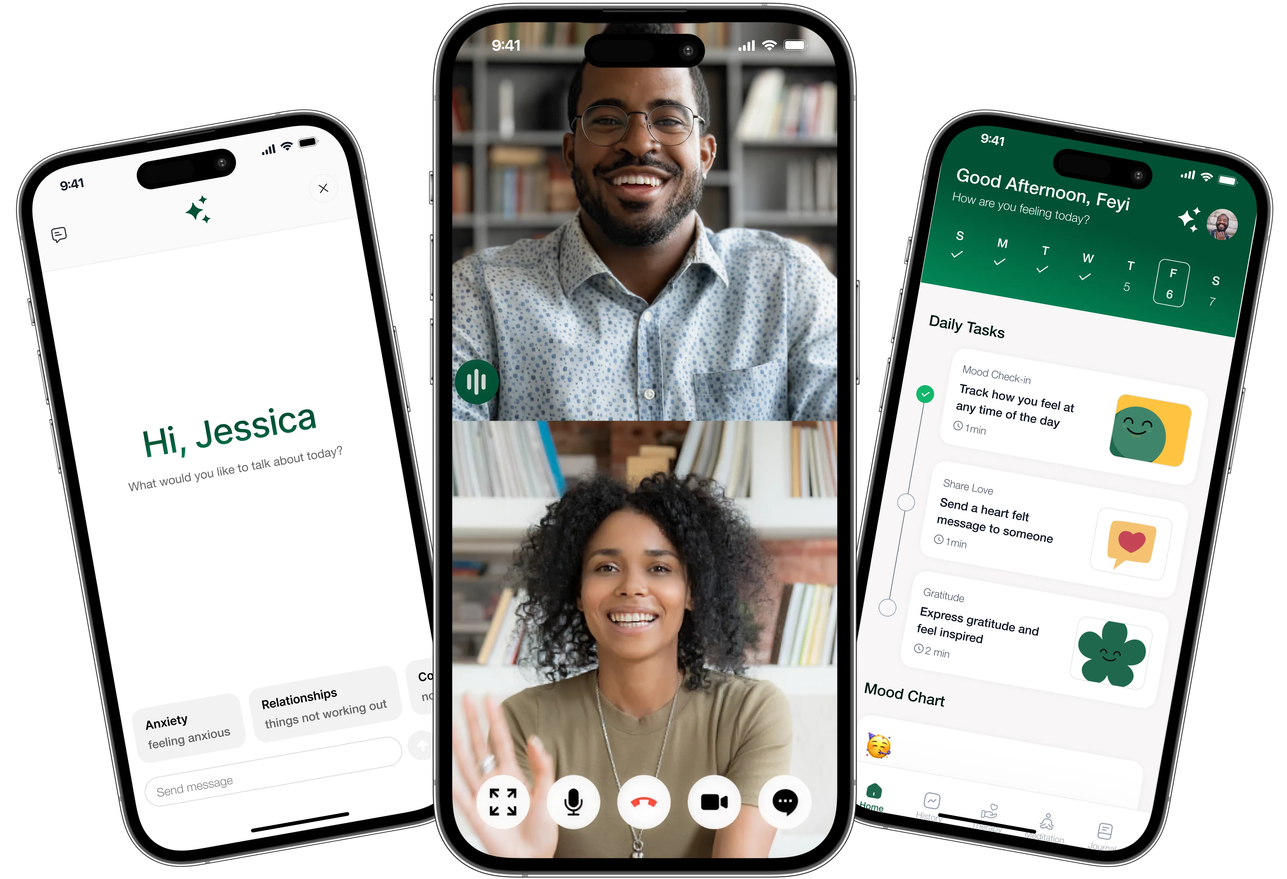
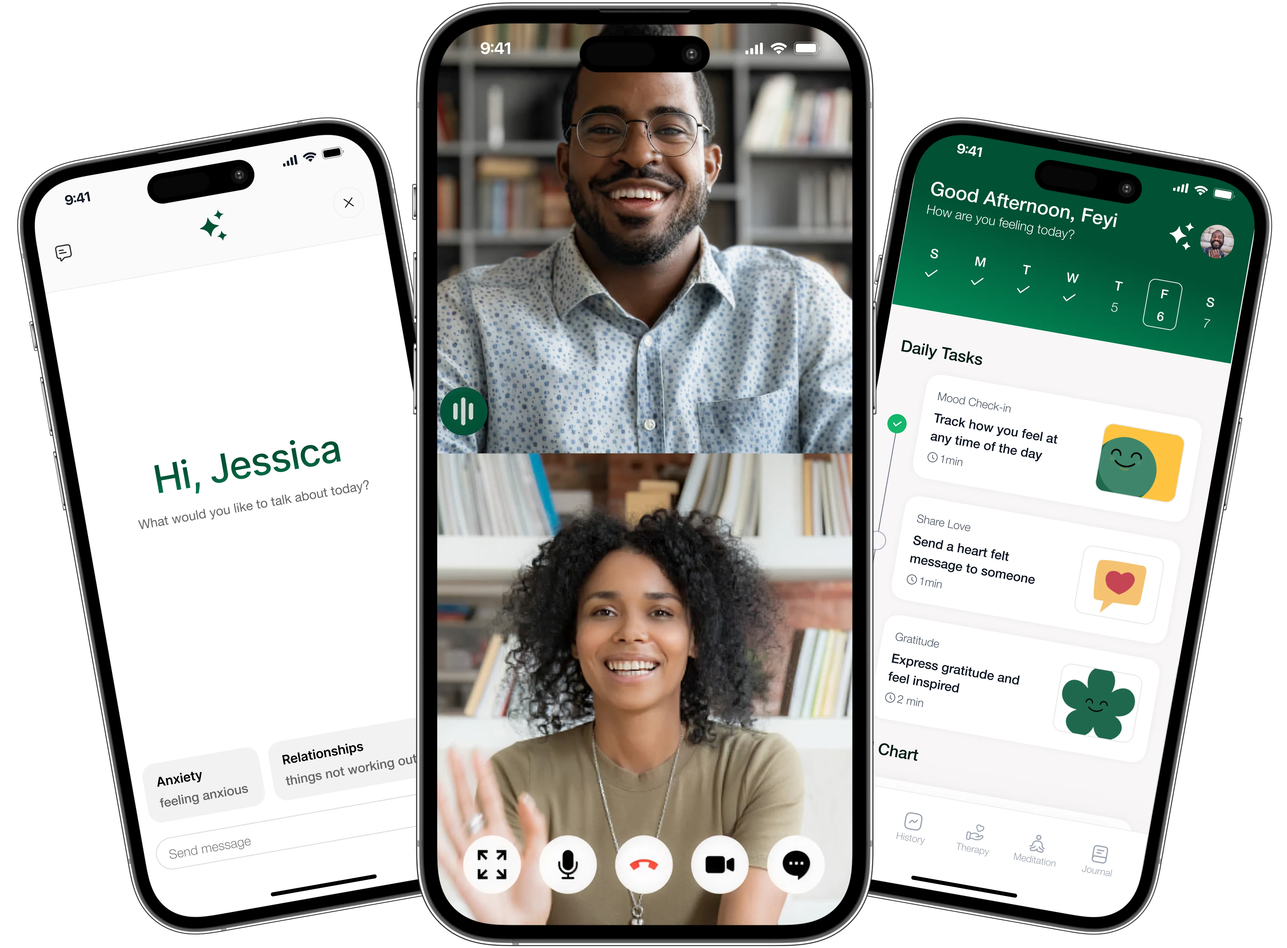
Adds mockups for features

diff --git a/components/home/client-homepage.tsx b/components/home/client-homepage.tsx
@@ -87,7 +87,7 @@ export default function ClientHomepage() {
               <div className="w-full max-w-[1440px] mx-auto px-6 lg:px-8">
                 <div className="flex flex-col gap-6 lg:gap-8 text-left lg:text-center">
                   <p className="text-[#015033] text-sm">FEATURES</p>
-                  <p className="text-[#101828] lg:leading-[72px] leading-[44px] lg:text-[60px] text-[36px] font-semibold">
+                  <p className="text-[#101828] text-[36px] leading-[44px] tracking-[-0.02em] lg:text-[60px] lg:leading-[72px] font-semibold">
                     What We Offer
                   </p>
                   <p className="text-base text-[#736F67] leading-[24px] mb-4">
@@ -103,7 +103,7 @@ export default function ClientHomepage() {
                   transition={{ duration: 0.6, ease: "easeOut" }}
                   viewport={{ once: true, margin: "-50px" }}
                 >
-                  {/* Self Care Feature - Horizontal Layout */}
+                  {/* Self Care Feature - Image Above Description */}
                   <motion.div 
                     className="flex flex-col gap-6 py-6"
                     initial={{ opacity: 0, y: 30 }}
@@ -111,35 +111,33 @@ export default function ClientHomepage() {
                     transition={{ duration: 0.5, delay: 0.1, ease: "easeOut" }}
                     viewport={{ once: true, margin: "-50px" }}
                   >
-                    {/* Progress Bar */}
-                    <div className="w-full h-1 bg-gray-200 rounded-full">
-                      <div className="w-3/4 h-full bg-[#01BC77] rounded-full"></div>
+                    {/* Image Above */}
+                    <div className="w-full h-[280px] bg-[#e5f8f1] rounded-[20px] border border-[rgba(1,188,119,0.1)] flex items-center justify-center relative overflow-hidden">
+                      <img 
+                        src="/selfcaremockup.webp" 
+                        alt="Self Care App Mockup" 
+                        className="absolute top-[48px] left-1/2 transform -translate-x-1/2 w-[24px] h-auto"
+                      />
                     </div>
                     
-                    <div className="flex items-center gap-6">
-                      <div className="flex-1">
-                        <div className="size-12 rounded-full flex items-center justify-center mb-4 w-fit">
-                          <svg width="48" height="49" viewBox="0 0 48 49" fill="none" xmlns="http://www.w3.org/2000/svg">
-                            <rect y="0.603027" width="48" height="48" rx="24" fill="#E5F8F1"/>
-                            <rect x="0.25" y="0.853027" width="47.5" height="47.5" rx="23.75" stroke="#01BC77" strokeOpacity="0.1" strokeWidth="0.5"/>
-                            <path d="M24 35.353C29.9371 35.353 34.75 30.5401 34.75 24.603C34.75 18.666 29.9371 13.853 24 13.853C18.0629 13.853 13.25 18.666 13.25 24.603C13.25 30.5401 18.0629 35.353 24 35.353ZM22.2373 23.3149C21.9312 23.417 21.5941 23.3113 21.4004 23.0532C20.9504 22.4532 20.0496 22.4532 19.5996 23.0532C19.351 23.3843 18.8811 23.4511 18.5498 23.2026C18.2187 22.954 18.1519 22.4841 18.4004 22.1528C18.9124 21.4704 19.6737 21.1209 20.4414 21.104C20.177 20.8095 20.1865 20.3559 20.4697 20.0728C20.7626 19.7799 21.2374 19.7799 21.5303 20.0728C21.564 20.1089 21.6711 20.223 21.7256 20.2866C21.8339 20.4129 21.9784 20.5936 22.124 20.812C22.3989 21.2244 22.75 21.8776 22.75 22.603C22.75 22.9259 22.5436 23.2129 22.2373 23.3149ZM26.5996 23.0532C26.4059 23.3113 26.0688 23.417 25.7627 23.3149C25.4564 23.2129 25.25 22.9259 25.25 22.603C25.25 21.8776 25.6011 21.2244 25.876 20.812C26.0216 20.5936 26.1661 20.4129 26.2744 20.2866C26.3289 20.223 26.436 20.1089 26.4697 20.0728C26.7626 19.7799 27.2374 19.7799 27.5303 20.0728C27.8135 20.3559 27.823 20.8095 27.5586 21.104C28.3263 21.1209 29.0876 21.4704 29.5996 22.1528C29.8481 22.4841 29.7813 22.954 29.4502 23.2026C29.1189 23.4511 28.649 23.3843 28.4004 23.0532C27.9504 22.4532 27.0496 22.4532 26.5996 23.0532ZM24 30.353C22.1185 30.353 20.4481 29.4481 19.4004 28.0532C19.1517 27.722 19.2186 27.2521 19.5498 27.0034C19.881 26.7547 20.3509 26.8216 20.5996 27.1528C21.3762 28.1867 22.6103 28.853 24 28.853C25.3897 28.853 26.6238 28.1867 27.4004 27.1528C27.6491 26.8217 28.119 26.7548 28.4502 27.0034C28.7814 27.2522 28.8483 27.722 28.5996 28.0532C27.5519 29.4481 25.8816 30.353 24 30.353Z" fill="#01BC77"/>
-                          </svg>
-                        </div>
-                        <h3 className="text-[#353535] text-xl font-medium mb-3">Self Care</h3>
-                        <p className="text-[#736F67] text-sm leading-5 mb-4">Personalize your self-care with mood check-ins, gratitude, journaling, sharing love & much more</p>
+                    {/* Content Below */}
+                    <div className="flex flex-col gap-4">
+                      <div className="size-12 rounded-full flex items-center justify-center mb-4 w-fit">
+                        <svg width="48" height="49" viewBox="0 0 48 49" fill="none" xmlns="http://www.w3.org/2000/svg">
+                          <rect y="0.603027" width="48" height="48" rx="24" fill="#E5F8F1"/>
+                          <rect x="0.25" y="0.853027" width="47.5" height="47.5" rx="23.75" stroke="#01BC77" strokeOpacity="0.1" strokeWidth="0.5"/>
+                          <path d="M24 35.353C29.9371 35.353 34.75 30.5401 34.75 24.603C34.75 18.666 29.9371 13.853 24 13.853C18.0629 13.853 13.25 18.666 13.25 24.603C13.25 30.5401 18.0629 35.353 24 35.353ZM22.2373 23.3149C21.9312 23.417 21.5941 23.3113 21.4004 23.0532C20.9504 22.4532 20.0496 22.4532 19.5996 23.0532C19.351 23.3843 18.8811 23.4511 18.5498 23.2026C18.2187 22.954 18.1519 22.4841 18.4004 22.1528C18.9124 21.4704 19.6737 21.1209 20.4414 21.104C20.177 20.8095 20.1865 20.3559 20.4697 20.0728C20.7626 19.7799 21.2374 19.7799 21.5303 20.0728C21.564 20.1089 21.6711 20.223 21.7256 20.2866C21.8339 20.4129 21.9784 20.5936 22.124 20.812C22.3989 21.2244 22.75 21.8776 22.75 22.603C22.75 22.9259 22.5436 23.2129 22.2373 23.3149ZM26.5996 23.0532C26.4059 23.3113 26.0688 23.417 25.7627 23.3149C25.4564 23.2129 25.25 22.9259 25.25 22.603C25.25 21.8776 25.6011 21.2244 25.876 20.812C26.0216 20.5936 26.1661 20.4129 26.2744 20.2866C26.3289 20.223 26.436 20.1089 26.4697 20.0728C26.7626 19.7799 27.2374 19.7799 27.5303 20.0728C27.8135 20.3559 27.823 20.8095 27.5586 21.104C28.3263 21.1209 29.0876 21.4704 29.5996 22.1528C29.8481 22.4841 29.7813 22.954 29.4502 23.2026C29.1189 23.4511 28.649 23.3843 28.4004 23.0532C27.9504 22.4532 27.0496 22.4532 26.5996 23.0532ZM24 30.353C22.1185 30.353 20.4481 29.4481 19.4004 28.0532C19.1517 27.722 19.2186 27.2521 19.5498 27.0034C19.881 26.7547 20.3509 26.8216 20.5996 27.1528C21.3762 28.1867 22.6103 28.853 24 28.853C25.3897 28.853 26.6238 28.1867 27.4004 27.1528C27.6491 26.8217 28.119 26.7548 28.4502 27.0034C28.7814 27.2522 28.8483 27.722 28.5996 28.0532C27.5519 29.4481 25.8816 30.353 24 30.353Z" fill="#01BC77"/>
+                        </svg>
+                      </div>
+                      <h3 className="text-[#353535] text-xl font-medium mb-3">Self Care</h3>
+                      <p className="text-[#736F67] text-sm leading-5 mb-4">Personalize your self-care with mood check-ins, gratitude, journaling, sharing love & much more</p>
                       <button className="w-full md:w-auto rounded-[4px] hover:bg-gray-50 hover:scale-[1.02] hover:shadow-sm px-5 py-3 text-center text-[16px] text-[#015033] transition-all duration-200 ease-out border border-[#015033]">
                         Start Self Care
                       </button>
-                      </div>
-                      <div className="flex-1">
-                        <div className="w-full h-[280px] bg-gray-200 rounded-lg flex items-center justify-center">
-                          <span className="text-gray-500 text-sm">iPhone Mockup</span>
-                        </div>
-                      </div>
                     </div>
                   </motion.div>
 
-                  {/* Therapy Feature - Vertical Stack */}
+                  {/* Therapy Feature - Image Above Description */}
                   <motion.div 
                     className="flex flex-col gap-6 py-6"
                     initial={{ opacity: 0, y: 30 }}
@@ -147,32 +145,39 @@ export default function ClientHomepage() {
                     transition={{ duration: 0.5, delay: 0.2, ease: "easeOut" }}
                     viewport={{ once: true, margin: "-50px" }}
                   >
-                    {/* Progress Bar */}
-                    <div className="w-full h-1 bg-gray-200 rounded-full">
-                      <div className="w-3/4 h-full bg-[#0665FE] rounded-full"></div>
+                    {/* Image Above */}
+                    <div className="w-full h-[280px] bg-[#eff3fb] rounded-[20px] border border-[rgba(6,101,254,0.1)] flex items-center justify-center relative overflow-hidden">
+                      <img 
+                        src="/therapymockup.webp" 
+                        alt="Therapy App Mockup" 
+                        className="absolute top-[48px] left-1/2 transform -translate-x-1/2 w-[24px] h-auto"
+                      />
                     </div>
                     
-                    <div className="flex items-center gap-4">
-                      <div className="size-12 rounded-full flex items-center justify-center w-fit">
-                        <svg width="48" height="49" viewBox="0 0 48 49" fill="none" xmlns="http://www.w3.org/2000/svg">
-                          <rect y="0.603027" width="48" height="48" rx="24" fill="#EFF3FB"/>
-                          <rect x="0.25" y="0.853027" width="47.5" height="47.5" rx="23.75" stroke="#0665FE" strokeOpacity="0.1" strokeWidth="0.5"/>
-                          <path d="M34 20.413V25.103H29.92C29.8 25.093 29.54 24.943 29.48 24.833L28.44 22.863C28.03 22.083 27.32 21.643 26.56 21.683C25.8 21.723 25.15 22.233 24.82 23.063L23.44 26.523L23.24 26.003C22.75 24.733 21.35 23.773 19.97 23.773L14 23.803V20.413C14 16.773 16.17 14.603 19.81 14.603H28.19C31.83 14.603 34 16.773 34 20.413Z" fill="#0665FE"/>
-                          <path d="M34 28.7929V26.6029H29.92C29.25 26.6029 28.46 26.1229 28.15 25.5329L27.11 23.5629C26.83 23.0329 26.43 23.0629 26.21 23.6129L23.91 29.4229C23.66 30.0729 23.24 30.0729 22.98 29.4229L21.84 26.5429C21.57 25.8429 20.73 25.2729 19.98 25.2729L14 25.3029V28.7929C14 32.3729 16.1 34.5329 19.63 34.5929C19.74 34.6029 19.86 34.6029 19.97 34.6029H27.97C28.12 34.6029 28.27 34.6029 28.41 34.5929C31.92 34.5129 34 32.3629 34 28.7929Z" fill="#0665FE"/>
-                          <path d="M13.9988 25.303V28.613C13.9787 28.293 13.9688 27.953 13.9688 27.603V25.303H13.9988Z" fill="#0665FE"/>
-                        </svg>
+                    {/* Content Below */}
+                    <div className="flex flex-col gap-4">
+                      <div className="flex items-center gap-4">
+                        <div className="size-12 rounded-full flex items-center justify-center w-fit">
+                          <svg width="48" height="49" viewBox="0 0 48 49" fill="none" xmlns="http://www.w3.org/2000/svg">
+                            <rect y="0.603027" width="48" height="48" rx="24" fill="#EFF3FB"/>
+                            <rect x="0.25" y="0.853027" width="47.5" height="47.5" rx="23.75" stroke="#0665FE" strokeOpacity="0.1" strokeWidth="0.5"/>
+                            <path d="M34 20.413V25.103H29.92C29.8 25.093 29.54 24.943 29.48 24.833L28.44 22.863C28.03 22.083 27.32 21.643 26.56 21.683C25.8 21.723 25.15 22.233 24.82 23.063L23.44 26.523L23.24 26.003C22.75 24.733 21.35 23.773 19.97 23.773L14 23.803V20.413C14 16.773 16.17 14.603 19.81 14.603H28.19C31.83 14.603 34 16.773 34 20.413Z" fill="#0665FE"/>
+                            <path d="M34 28.7929V26.6029H29.92C29.25 26.6029 28.46 26.1229 28.15 25.5329L27.11 23.5629C26.83 23.0329 26.43 23.0629 26.21 23.6129L23.91 29.4229C23.66 30.0729 23.24 30.0729 22.98 29.4229L21.84 26.5429C21.57 25.8429 20.73 25.2729 19.98 25.2729L14 25.3029V28.7929C14 32.3729 16.1 34.5329 19.63 34.5929C19.74 34.6029 19.86 34.6029 19.97 34.6029H27.97C28.12 34.6029 28.27 34.6029 28.41 34.5929C31.92 34.5129 34 32.3629 34 28.7929Z" fill="#0665FE"/>
+                            <path d="M13.9988 25.303V28.613C13.9787 28.293 13.9688 27.953 13.9688 27.603V25.303H13.9988Z" fill="#0665FE"/>
+                          </svg>
+                        </div>
+                        <div className="flex flex-col gap-2">
+                          <h3 className="text-[#353535] text-xl font-medium">Therapy</h3>
+                          <p className="text-[#736F67] text-base leading-6">Match with the right therapist for you, eliminating guesswork and awkward mismatches</p>
+                        </div>
                       </div>
-                      <div className="flex flex-col gap-2">
-                        <h3 className="text-[#353535] text-xl font-medium">Therapy</h3>
-                        <p className="text-[#736F67] text-base leading-6">Match with the right therapist for you, eliminating guesswork and awkward mismatches</p>
-                      </div>
+                      <button className="w-full md:w-auto rounded-[4px] hover:bg-gray-50 hover:scale-[1.02] hover:shadow-sm px-5 py-3 text-center text-[16px] text-[#015033] transition-all duration-200 ease-out border border-[#015033]">
+                        Find a Therapist
+                      </button>
                     </div>
-                    <button className="w-full md:w-auto rounded-[4px] hover:bg-gray-50 hover:scale-[1.02] hover:shadow-sm px-5 py-3 text-center text-[16px] text-[#015033] transition-all duration-200 ease-out border border-[#015033]">
-                      Find a Therapist
-                    </button>
                   </motion.div>
 
-                  {/* AI Therapy Feature - Vertical Stack */}
+                  {/* AI Therapy Feature - Image Above Description */}
                   <motion.div 
                     className="flex flex-col gap-6 py-6"
                     initial={{ opacity: 0, y: 30 }}
@@ -180,31 +185,38 @@ export default function ClientHomepage() {
                     transition={{ duration: 0.5, delay: 0.3, ease: "easeOut" }}
                     viewport={{ once: true, margin: "-50px" }}
                   >
-                    {/* Progress Bar */}
-                    <div className="w-full h-1 bg-gray-200 rounded-full">
-                      <div className="w-3/4 h-full bg-[#D92D20] rounded-full"></div>
+                    {/* Image Above */}
+                    <div className="w-full h-[280px] bg-[#fef6eb] rounded-[20px] border border-[rgba(245,151,20,0.1)] flex items-center justify-center relative overflow-hidden">
+                      <img 
+                        src="/aitherapymockup.webp" 
+                        alt="AI Therapy App Mockup" 
+                        className="absolute top-[48px] left-1/2 transform -translate-x-1/2 w-[24px] h-auto"
+                      />
                     </div>
                     
-                    <div className="flex items-center gap-4">
-                      <div className="size-12 rounded-full flex items-center justify-center w-fit">
-                        <svg width="48" height="49" viewBox="0 0 48 49" fill="none" xmlns="http://www.w3.org/2000/svg">
-                          <rect y="0.603027" width="48" height="48" rx="24" fill="#FEF6EB"/>
-                          <rect x="0.25" y="0.853027" width="47.5" height="47.5" rx="23.75" stroke="#F59714" strokeOpacity="0.1" strokeWidth="0.5"/>
-                          <path d="M31.4812 15.423L31.7612 15.993C31.9012 16.273 32.2512 16.533 32.5612 16.593L32.9412 16.653C34.0812 16.843 34.3512 17.683 33.5312 18.513L33.1812 18.863C32.9512 19.103 32.8212 19.563 32.8912 19.883L32.9412 20.093C33.2512 21.473 32.5212 22.003 31.3212 21.283L31.0612 21.133C30.7512 20.953 30.2512 20.953 29.9412 21.133L29.6812 21.283C28.4712 22.013 27.7412 21.473 28.0612 20.093L28.1112 19.883C28.1812 19.563 28.0512 19.103 27.8212 18.863L27.4712 18.503C26.6512 17.673 26.9212 16.833 28.0612 16.643L28.4412 16.583C28.7412 16.533 29.1012 16.263 29.2412 15.983L29.5212 15.413C30.0612 14.333 30.9412 14.333 31.4812 15.423Z" fill="#F59714"/>
-                          <path d="M33.57 22.693C33.21 22.953 32.2 23.433 30.76 22.693C30.6 22.613 30.4 22.603 30.24 22.693C29.67 22.983 29.15 23.103 28.74 23.103C28.1 23.103 27.65 22.853 27.43 22.693C27.06 22.423 26.28 21.653 26.55 20.023C26.58 19.853 26.53 19.683 26.42 19.553C25.73 18.763 25.35 17.703 25.62 16.873C25.72 16.543 25.51 16.103 25.17 16.103H19C16 16.103 14 17.603 14 21.103V28.103C14 31.603 16 33.103 19 33.103H29C32 33.103 34 31.603 34 28.103V22.873C34 22.683 33.73 22.583 33.57 22.693ZM26.34 24.693C25.68 25.223 24.84 25.483 24 25.483C23.16 25.483 22.31 25.223 21.66 24.693L18.53 22.193C18.21 21.933 18.16 21.453 18.41 21.133C18.67 20.813 19.14 20.753 19.46 21.013L22.59 23.513C23.35 24.123 24.64 24.123 25.4 23.513C25.72 23.253 26.19 23.303 26.45 23.633C26.72 23.953 26.67 24.433 26.34 24.693Z" fill="#F59714"/>
-                        </svg>
+                    {/* Content Below */}
+                    <div className="flex flex-col gap-4">
+                      <div className="flex items-center gap-4">
+                        <div className="size-12 rounded-full flex items-center justify-center w-fit">
+                          <svg width="48" height="49" viewBox="0 0 48 49" fill="none" xmlns="http://www.w3.org/2000/svg">
+                            <rect y="0.603027" width="48" height="48" rx="24" fill="#FEF6EB"/>
+                            <rect x="0.25" y="0.853027" width="47.5" height="47.5" rx="23.75" stroke="#F59714" strokeOpacity="0.1" strokeWidth="0.5"/>
+                            <path d="M31.4812 15.423L31.7612 15.993C31.9012 16.273 32.2512 16.533 32.5612 16.593L32.9412 16.653C34.0812 16.843 34.3512 17.683 33.5312 18.513L33.1812 18.863C32.9512 19.103 32.8212 19.563 32.8912 19.883L32.9412 20.093C33.2512 21.473 32.5212 22.003 31.3212 21.283L31.0612 21.133C30.7512 20.953 30.2512 20.953 29.9412 21.133L29.6812 21.283C28.4712 22.013 27.7412 21.473 28.0612 20.093L28.1112 19.883C28.1812 19.563 28.0512 19.103 27.8212 18.863L27.4712 18.503C26.6512 17.673 26.9212 16.833 28.0612 16.643L28.4412 16.583C28.7412 16.533 29.1012 16.263 29.2412 15.983L29.5212 15.413C30.0612 14.333 30.9412 14.333 31.4812 15.423Z" fill="#F59714"/>
+                            <path d="M33.57 22.693C33.21 22.953 32.2 23.433 30.76 22.693C30.6 22.613 30.4 22.603 30.24 22.693C29.67 22.983 29.15 23.103 28.74 23.103C28.1 23.103 27.65 22.853 27.43 22.693C27.06 22.423 26.28 21.653 26.55 20.023C26.58 19.853 26.53 19.683 26.42 19.553C25.73 18.763 25.35 17.703 25.62 16.873C25.72 16.543 25.51 16.103 25.17 16.103H19C16 16.103 14 17.603 14 21.103V28.103C14 31.603 16 33.103 19 33.103H29C32 33.103 34 31.603 34 28.103V22.873C34 22.683 33.73 22.583 33.57 22.693ZM26.34 24.693C25.68 25.223 24.84 25.483 24 25.483C23.16 25.483 22.31 25.223 21.66 24.693L18.53 22.193C18.21 21.933 18.16 21.453 18.41 21.133C18.67 20.813 19.14 20.753 19.46 21.013L22.59 23.513C23.35 24.123 24.64 24.123 25.4 23.513C25.72 23.253 26.19 23.303 26.45 23.633C26.72 23.953 26.67 24.433 26.34 24.693Z" fill="#F59714"/>
+                          </svg>
+                        </div>
+                        <div className="flex flex-col gap-2">
+                          <h3 className="text-[#353535] text-xl font-medium">AI Therapy</h3>
+                          <p className="text-[#736F67] text-base leading-6">Engage with Nara AI for 24/7 personalized mental health support anytime, anywhere.</p>
+                        </div>
                       </div>
-                      <div className="flex flex-col gap-2">
-                        <h3 className="text-[#353535] text-xl font-medium">AI Therapy</h3>
-                        <p className="text-[#736F67] text-base leading-6">Engage with Nara AI for 24/7 personalized mental health support anytime, anywhere.</p>
-                      </div>
+                      <button className="w-full md:w-auto rounded-[4px] hover:bg-gray-50 hover:scale-[1.02] hover:shadow-sm px-5 py-3 text-center text-[16px] text-[#015033] transition-all duration-200 ease-out border border-[#015033]">
+                        Start a chat
+                      </button>
                     </div>
-                    <button className="w-full md:w-auto rounded-[4px] hover:bg-gray-50 hover:scale-[1.02] hover:shadow-sm px-5 py-3 text-center text-[16px] text-[#015033] transition-all duration-200 ease-out border border-[#015033]">
-                      Start a chat
-                    </button>
                   </motion.div>
 
-                  {/* Meditation Feature - Vertical Stack */}
+                  {/* Meditation Feature - Image Above Description */}
                   <motion.div 
                     className="flex flex-col gap-6 py-6"
                     initial={{ opacity: 0, y: 30 }}
@@ -212,28 +224,35 @@ export default function ClientHomepage() {
                     transition={{ duration: 0.5, delay: 0.4, ease: "easeOut" }}
                     viewport={{ once: true, margin: "-50px" }}
                   >
-                    {/* Progress Bar */}
-                    <div className="w-full h-1 bg-gray-200 rounded-full">
-                      <div className="w-3/4 h-full bg-[#0EA5E9] rounded-full"></div>
+                    {/* Image Above */}
+                    <div className="w-full h-[280px] bg-[#f0fbff] rounded-[20px] border border-[rgba(89,213,251,0.1)] flex items-center justify-center relative overflow-hidden">
+                      <img 
+                        src="/meditationmockup.webp" 
+                        alt="Meditation App Mockup" 
+                        className="absolute top-[48px] left-1/2 transform -translate-x-1/2 w-[24px] h-auto"
+                      />
                     </div>
                     
-                    <div className="flex items-center gap-4">
-                      <div className="size-12 rounded-full flex items-center justify-center w-fit">
-                        <svg width="48" height="49" viewBox="0 0 48 49" fill="none" xmlns="http://www.w3.org/2000/svg">
-                          <rect y="0.603027" width="48" height="48" rx="24" fill="#F0FBFF"/>
-                          <rect x="0.25" y="0.853027" width="47.5" height="47.5" rx="23.75" stroke="#59D5FB" strokeOpacity="0.1" strokeWidth="0.5"/>
-                          <path d="M26.75 16.603C26.75 15.0842 25.5188 13.853 24 13.853C22.4812 13.853 21.25 15.0842 21.25 16.603C21.25 18.1218 22.4812 19.353 24 19.353C25.5188 19.353 26.75 18.1218 26.75 16.603Z" fill="#59D5FB"/>
-                          <path d="M24 19.853C22.1235 19.853 20.4224 20.5464 19.1896 21.6661C19.0655 21.7788 18.9461 21.8959 18.8318 22.017C18.3444 22.5331 18.161 23.1567 18.0627 23.6363C17.9065 24.398 17.5898 25.2847 17.0854 25.9569C16.5933 26.6127 15.9951 26.9831 15.225 26.9831C14.6865 26.9831 14.25 27.3821 14.25 27.8744C14.25 28.3666 14.6865 28.7656 15.225 28.7656C16.8397 28.7656 17.969 27.9306 18.6934 26.9652C19.3068 26.1478 19.6804 25.1811 19.8903 24.3529C20.2492 25.2113 20.4742 26.0318 20.3893 26.8388C20.2887 27.7958 19.665 28.5126 18.6721 29.1775C18.1789 29.5077 17.6266 29.8036 17.0515 30.1002C16.5802 30.3416 15.7996 30.7418 15.3672 30.9987C14.3771 31.5869 14.1003 32.6941 14.3235 33.5948C14.5504 34.5106 15.3294 35.353 16.5358 35.353C18.5176 35.353 20.3854 35.197 22.2897 34.3019L23.9098 33.3104L25.5681 34.3044C27.5076 35.1972 29.4098 35.353 31.4317 35.353C32.6442 35.353 33.4407 34.5228 33.6746 33.5984C33.9048 32.6886 33.6158 31.5797 32.6111 30.9952C32.1701 30.7387 31.677 30.4913 31.1957 30.2499C30.6083 29.9533 29.7398 29.5043 29.2353 29.1735C28.217 28.5058 27.5827 27.7884 27.4806 26.8372C27.3907 26.0006 27.6628 25.1289 28.0748 24.2104C28.2771 25.0686 28.6576 26.1004 29.3066 26.9652C30.031 27.9306 31.1603 28.7656 32.775 28.7656C33.3135 28.7656 33.75 28.3666 33.75 27.8744C33.75 27.3821 33.3135 26.9831 32.775 26.9831C32.0049 26.9831 31.4067 26.6127 30.9146 25.9569C30.4102 25.2847 30.0935 24.398 29.9373 23.6363C29.839 23.1567 29.6556 22.5331 29.1682 22.017C29.0367 21.8777 28.8987 21.7439 28.7544 21.6158C27.5264 20.5257 25.8481 19.853 24 19.853Z" fill="#59D5FB"/>
-                        </svg>
+                    {/* Content Below */}
+                    <div className="flex flex-col gap-4">
+                      <div className="flex items-center gap-4">
+                        <div className="size-12 rounded-full flex items-center justify-center w-fit">
+                          <svg width="48" height="49" viewBox="0 0 48 49" fill="none" xmlns="http://www.w3.org/2000/svg">
+                            <rect y="0.603027" width="48" height="48" rx="24" fill="#F0FBFF"/>
+                            <rect x="0.25" y="0.853027" width="47.5" height="47.5" rx="23.75" stroke="#59D5FB" strokeOpacity="0.1" strokeWidth="0.5"/>
+                            <path d="M26.75 16.603C26.75 15.0842 25.5188 13.853 24 13.853C22.4812 13.853 21.25 15.0842 21.25 16.603C21.25 18.1218 22.4812 19.353 24 19.353C25.5188 19.353 26.75 18.1218 26.75 16.603Z" fill="#59D5FB"/>
+                            <path d="M24 19.853C22.1235 19.853 20.4224 20.5464 19.1896 21.6661C19.0655 21.7788 18.9461 21.8959 18.8318 22.017C18.3444 22.5331 18.161 23.1567 18.0627 23.6363C17.9065 24.398 17.5898 25.2847 17.0854 25.9569C16.5933 26.6127 15.9951 26.9831 15.225 26.9831C14.6865 26.9831 14.25 27.3821 14.25 27.8744C14.25 28.3666 14.6865 28.7656 15.225 28.7656C16.8397 28.7656 17.969 27.9306 18.6934 26.9652C19.3068 26.1478 19.6804 25.1811 19.8903 24.3529C20.2492 25.2113 20.4742 26.0318 20.3893 26.8388C20.2887 27.7958 19.665 28.5126 18.6721 29.1775C18.1789 29.5077 17.6266 29.8036 17.0515 30.1002C16.5802 30.3416 15.7996 30.7418 15.3672 30.9987C14.3771 31.5869 14.1003 32.6941 14.3235 33.5948C14.5504 34.5106 15.3294 35.353 16.5358 35.353C18.5176 35.353 20.3854 35.197 22.2897 34.3019L23.9098 33.3104L25.5681 34.3044C27.5076 35.1972 29.4098 35.353 31.4317 35.353C32.6442 35.353 33.4407 34.5228 33.6746 33.5984C33.9048 32.6886 33.6158 31.5797 32.6111 30.9952C32.1701 30.7387 31.677 30.4913 31.1957 30.2499C30.6083 29.9533 29.7398 29.5043 29.2353 29.1735C28.217 28.5058 27.5827 27.7884 27.4806 26.8372C27.3907 26.0006 27.6628 25.1289 28.0748 24.2104C28.2771 25.0686 28.6576 26.1004 29.3066 26.9652C30.031 27.9306 31.1603 28.7656 32.775 28.7656C33.3135 28.7656 33.75 28.3666 33.75 27.8744C33.75 27.3821 33.3135 26.9831 32.775 26.9831C32.0049 26.9831 31.4067 26.6127 30.9146 25.9569C30.4102 25.2847 30.0935 24.398 29.9373 23.6363C29.839 23.1567 29.6556 22.5331 29.1682 22.017C29.0367 21.8777 28.8987 21.7439 28.7544 21.6158C27.5264 20.5257 25.8481 19.853 24 19.853Z" fill="#59D5FB"/>
+                          </svg>
+                        </div>
+                        <div className="flex flex-col gap-2">
+                          <h3 className="text-[#353535] text-xl font-medium">Meditation</h3>
+                          <p className="text-[#736F67] text-base leading-6">Discover peace and clarity with guided meditations tailored to your emotional and mental needs.</p>
+                        </div>
                       </div>
-                      <div className="flex flex-col gap-2">
-                        <h3 className="text-[#353535] text-xl font-medium">Meditation</h3>
-                        <p className="text-[#736F67] text-base leading-6">Discover peace and clarity with guided meditations tailored to your emotional and mental needs.</p>
-                      </div>
+                      <button className="w-full md:w-auto rounded-[4px] hover:bg-gray-50 hover:scale-[1.02] hover:shadow-sm px-5 py-3 text-center text-[16px] text-[#015033] transition-all duration-200 ease-out border border-[#015033]">
+                        Find your inner peace
+                      </button>
                     </div>
-                    <button className="w-full md:w-auto rounded-[4px] hover:bg-gray-50 hover:scale-[1.02] hover:shadow-sm px-5 py-3 text-center text-[16px] text-[#015033] transition-all duration-200 ease-out border border-[#015033]">
-                      Find your inner peace
-                    </button>
                   </motion.div>
 
               </motion.div>
@@ -254,9 +273,13 @@ export default function ClientHomepage() {
                     transition={{ duration: 0.5, delay: 0.1, ease: "easeOut" }}
                     viewport={{ once: true, margin: "-50px" }}
                   >
-                    <div className="w-[560px] flex-shrink-0">
-                      <div className="w-full h-[480px] bg-gray-200 rounded-lg flex items-center justify-center">
-                        <span className="text-gray-500">iPhone Mockup</span>
+                    <div className="w-[560px] flex-shrink-0 overflow-hidden">
+                      <div className="w-full h-[480px] bg-[#e5f8f1] rounded-[20px] border border-[rgba(1,188,119,0.1)] flex items-center justify-center relative">
+                        <img 
+                          src="/selfcaremockup.webp" 
+                          alt="Self Care App Mockup" 
+                          className="absolute top-[48px] lg:top-[80px] left-1/2 transform -translate-x-1/2 w-[24px] lg:w-[400px] h-auto"
+                        />
                       </div>
                     </div>
                     <div className="flex-1 pl-8 min-w-[300px]">
@@ -267,8 +290,8 @@ export default function ClientHomepage() {
                           <path d="M24 35.353C29.9371 35.353 34.75 30.5401 34.75 24.603C34.75 18.666 29.9371 13.853 24 13.853C18.0629 13.853 13.25 18.666 13.25 24.603C13.25 30.5401 18.0629 35.353 24 35.353ZM22.2373 23.3149C21.9312 23.417 21.5941 23.3113 21.4004 23.0532C20.9504 22.4532 20.0496 22.4532 19.5996 23.0532C19.351 23.3843 18.8811 23.4511 18.5498 23.2026C18.2187 22.954 18.1519 22.4841 18.4004 22.1528C18.9124 21.4704 19.6737 21.1209 20.4414 21.104C20.177 20.8095 20.1865 20.3559 20.4697 20.0728C20.7626 19.7799 21.2374 19.7799 21.5303 20.0728C21.564 20.1089 21.6711 20.223 21.7256 20.2866C21.8339 20.4129 21.9784 20.5936 22.124 20.812C22.3989 21.2244 22.75 21.8776 22.75 22.603C22.75 22.9259 22.5436 23.2129 22.2373 23.3149ZM26.5996 23.0532C26.4059 23.3113 26.0688 23.417 25.7627 23.3149C25.4564 23.2129 25.25 22.9259 25.25 22.603C25.25 21.8776 25.6011 21.2244 25.876 20.812C26.0216 20.5936 26.1661 20.4129 26.2744 20.2866C26.3289 20.223 26.436 20.1089 26.4697 20.0728C26.7626 19.7799 27.2374 19.7799 27.5303 20.0728C27.8135 20.3559 27.823 20.8095 27.5586 21.104C28.3263 21.1209 29.0876 21.4704 29.5996 22.1528C29.8481 22.4841 29.7813 22.954 29.4502 23.2026C29.1189 23.4511 28.649 23.3843 28.4004 23.0532C27.9504 22.4532 27.0496 22.4532 26.5996 23.0532ZM24 30.353C22.1185 30.353 20.4481 29.4481 19.4004 28.0532C19.1517 27.722 19.2186 27.2521 19.5498 27.0034C19.881 26.7547 20.3509 26.8216 20.5996 27.1528C21.3762 28.1867 22.6103 28.853 24 28.853C25.3897 28.853 26.6238 28.1867 27.4004 27.1528C27.6491 26.8217 28.119 26.7548 28.4502 27.0034C28.7814 27.2522 28.8483 27.722 28.5996 28.0532C27.5519 29.4481 25.8816 30.353 24 30.353Z" fill="#01BC77"/>
                         </svg>
                       </div>
-                      <h3 className="text-[#353535] text-2xl font-medium mb-4">Self Care</h3>
-                      <p className="text-[#736F67] leading-6 text-base mb-6">Personalize your self-care with mood check-ins, gratitude, journaling, sharing love & much more</p>
+                      <h3 className="text-[#353535] text-2xl lg:text-[46px] lg:leading-[44px] lg:tracking-[-0.02em] font-medium mb-4">Self Care</h3>
+                      <p className="text-[#736F67] leading-6 text-base lg:text-[18px] mb-6">Personalize your self-care with mood check-ins, gratitude, journaling, sharing love & much more</p>
                       <button className="w-full md:w-auto rounded-[4px] hover:bg-gray-50 hover:scale-[1.02] hover:shadow-sm px-5 py-3 text-center text-[16px] text-[#015033] transition-all duration-200 ease-out border border-[#015033]">
                         Start Self Care
                       </button>
@@ -293,15 +316,19 @@ export default function ClientHomepage() {
                           <path d="M13.9988 25.303V28.613C13.9787 28.293 13.9688 27.953 13.9688 27.603V25.303H13.9988Z" fill="#0665FE"/>
                         </svg>
                       </div>
-                      <h3 className="text-[#353535] text-2xl font-medium mb-4">Therapy</h3>
-                      <p className="text-[#736F67] leading-6 text-base mb-6">Match with the right therapist for you, eliminating guesswork and awkward mismatches</p>
+                      <h3 className="text-[#353535] text-2xl lg:text-[46px] lg:leading-[44px] lg:tracking-[-0.02em] font-medium mb-4">Therapy</h3>
+                      <p className="text-[#736F67] leading-6 text-base lg:text-[18px] mb-6">Match with the right therapist for you, eliminating guesswork and awkward mismatches</p>
                       <button className="w-full md:w-auto rounded-[4px] hover:bg-gray-50 hover:scale-[1.02] hover:shadow-sm px-5 py-3 text-center text-[16px] text-[#015033] transition-all duration-200 ease-out border border-[#015033]">
                         Find a Therapist
                       </button>
                     </div>
-                    <div className="w-[560px] flex-shrink-0">
-                      <div className="w-full h-[480px] bg-gray-200 rounded-lg flex items-center justify-center">
-                        <span className="text-gray-500">iPhone Mockup</span>
+                    <div className="w-[560px] flex-shrink-0 overflow-hidden">
+                      <div className="w-full h-[480px] bg-[#eff3fb] rounded-[20px] border border-[rgba(6,101,254,0.1)] flex items-center justify-center relative">
+                        <img 
+                          src="/therapymockup.webp" 
+                          alt="Therapy App Mockup" 
+                          className="absolute top-[48px] lg:top-[80px] left-1/2 transform -translate-x-1/2 w-[24px] lg:w-[400px] h-auto"
+                        />
                       </div>
                     </div>
                   </motion.div>
@@ -314,9 +341,13 @@ export default function ClientHomepage() {
                     transition={{ duration: 0.5, delay: 0.3, ease: "easeOut" }}
                     viewport={{ once: true, margin: "-50px" }}
                   >
-                    <div className="w-[560px] flex-shrink-0">
-                      <div className="w-full h-[480px] bg-gray-200 rounded-lg flex items-center justify-center">
-                        <span className="text-gray-500">iPhone Mockup</span>
+                    <div className="w-[560px] flex-shrink-0 overflow-hidden">
+                      <div className="w-full h-[480px] bg-[#fef6eb] rounded-[20px] border border-[rgba(245,151,20,0.1)] flex items-center justify-center relative">
+                        <img 
+                          src="/aitherapymockup.webp" 
+                          alt="AI Therapy App Mockup" 
+                          className="absolute top-[48px] lg:top-[80px] left-1/2 transform -translate-x-1/2 w-[24px] lg:w-[400px] h-auto"
+                        />
                       </div>
                     </div>
                     <div className="flex-1 pl-8 min-w-[300px]">
@@ -328,8 +359,8 @@ export default function ClientHomepage() {
                           <path d="M33.57 22.693C33.21 22.953 32.2 23.433 30.76 22.693C30.6 22.613 30.4 22.603 30.24 22.693C29.67 22.983 29.15 23.103 28.74 23.103C28.1 23.103 27.65 22.853 27.43 22.693C27.06 22.423 26.28 21.653 26.55 20.023C26.58 19.853 26.53 19.683 26.42 19.553C25.73 18.763 25.35 17.703 25.62 16.873C25.72 16.543 25.51 16.103 25.17 16.103H19C16 16.103 14 17.603 14 21.103V28.103C14 31.603 16 33.103 19 33.103H29C32 33.103 34 31.603 34 28.103V22.873C34 22.683 33.73 22.583 33.57 22.693ZM26.34 24.693C25.68 25.223 24.84 25.483 24 25.483C23.16 25.483 22.31 25.223 21.66 24.693L18.53 22.193C18.21 21.933 18.16 21.453 18.41 21.133C18.67 20.813 19.14 20.753 19.46 21.013L22.59 23.513C23.35 24.123 24.64 24.123 25.4 23.513C25.72 23.253 26.19 23.303 26.45 23.633C26.72 23.953 26.67 24.433 26.34 24.693Z" fill="#F59714"/>
                         </svg>
                       </div>
-                      <h3 className="text-[#353535] text-2xl font-medium mb-4">AI Therapy</h3>
-                      <p className="text-[#736F67] leading-6 text-base mb-6">Engage with Nara AI for 24/7 personalized mental health support anytime, anywhere.</p>
+                      <h3 className="text-[#353535] text-2xl lg:text-[46px] lg:leading-[44px] lg:tracking-[-0.02em] font-medium mb-4">AI Therapy</h3>
+                      <p className="text-[#736F67] leading-6 text-base lg:text-[18px] mb-6">Engage with Nara AI for 24/7 personalized mental health support anytime, anywhere.</p>
                       <button className="w-full md:w-auto rounded-[4px] hover:bg-gray-50 hover:scale-[1.02] hover:shadow-sm px-5 py-3 text-center text-[16px] text-[#015033] transition-all duration-200 ease-out border border-[#015033]">
                         Start a chat
                       </button>
@@ -353,15 +384,19 @@ export default function ClientHomepage() {
                           <path d="M24 19.853C22.1235 19.853 20.4224 20.5464 19.1896 21.6661C19.0655 21.7788 18.9461 21.8959 18.8318 22.017C18.3444 22.5331 18.161 23.1567 18.0627 23.6363C17.9065 24.398 17.5898 25.2847 17.0854 25.9569C16.5933 26.6127 15.9951 26.9831 15.225 26.9831C14.6865 26.9831 14.25 27.3821 14.25 27.8744C14.25 28.3666 14.6865 28.7656 15.225 28.7656C16.8397 28.7656 17.969 27.9306 18.6934 26.9652C19.3068 26.1478 19.6804 25.1811 19.8903 24.3529C20.2492 25.2113 20.4742 26.0318 20.3893 26.8388C20.2887 27.7958 19.665 28.5126 18.6721 29.1775C18.1789 29.5077 17.6266 29.8036 17.0515 30.1002C16.5802 30.3416 15.7996 30.7418 15.3672 30.9987C14.3771 31.5869 14.1003 32.6941 14.3235 33.5948C14.5504 34.5106 15.3294 35.353 16.5358 35.353C18.5176 35.353 20.3854 35.197 22.2897 34.3019L23.9098 33.3104L25.5681 34.3044C27.5076 35.1972 29.4098 35.353 31.4317 35.353C32.6442 35.353 33.4407 34.5228 33.6746 33.5984C33.9048 32.6886 33.6158 31.5797 32.6111 30.9952C32.1701 30.7387 31.677 30.4913 31.1957 30.2499C30.6083 29.9533 29.7398 29.5043 29.2353 29.1735C28.217 28.5058 27.5827 27.7884 27.4806 26.8372C27.3907 26.0006 27.6628 25.1289 28.0748 24.2104C28.2771 25.0686 28.6576 26.1004 29.3066 26.9652C30.031 27.9306 31.1603 28.7656 32.775 28.7656C33.3135 28.7656 33.75 28.3666 33.75 27.8744C33.75 27.3821 33.3135 26.9831 32.775 26.9831C32.0049 26.9831 31.4067 26.6127 30.9146 25.9569C30.4102 25.2847 30.0935 24.398 29.9373 23.6363C29.839 23.1567 29.6556 22.5331 29.1682 22.017C29.0367 21.8777 28.8987 21.7439 28.7544 21.6158C27.5264 20.5257 25.8481 19.853 24 19.853Z" fill="#59D5FB"/>
                         </svg>
                       </div>
-                      <h3 className="text-[#353535] text-2xl font-medium mb-4">Meditation</h3>
-                      <p className="text-[#736F67] leading-6 text-base mb-6">Discover peace and clarity with guided meditations tailored to your emotional and mental needs.</p>
+                      <h3 className="text-[#353535] text-2xl lg:text-[46px] lg:leading-[44px] lg:tracking-[-0.02em] font-medium mb-4">Meditation</h3>
+                      <p className="text-[#736F67] leading-6 text-base lg:text-[18px] mb-6">Discover peace and clarity with guided meditations tailored to your emotional and mental needs.</p>
                       <button className="w-full md:w-auto rounded-[4px] hover:bg-gray-50 hover:scale-[1.02] hover:shadow-sm px-5 py-3 text-center text-[16px] text-[#015033] transition-all duration-200 ease-out border border-[#015033]">
                         Find your inner peace
                       </button>
                     </div>
-                    <div className="w-[560px] flex-shrink-0">
-                      <div className="w-full h-[480px] bg-gray-200 rounded-lg flex items-center justify-center">
-                        <span className="text-gray-500">iPhone Mockup</span>
+                    <div className="w-[560px] flex-shrink-0 overflow-hidden">
+                      <div className="w-full h-[480px] bg-[#f0fbff] rounded-[20px] border border-[rgba(89,213,251,0.1)] flex items-center justify-center relative">
+                        <img 
+                          src="/meditationmockup.webp" 
+                          alt="Meditation App Mockup" 
+                          className="absolute top-[48px] lg:top-[80px] left-1/2 transform -translate-x-1/2 w-[240px] lg:w-[400px] h-auto"
+                        />
                       </div>
                     </div>
                   </motion.div>
